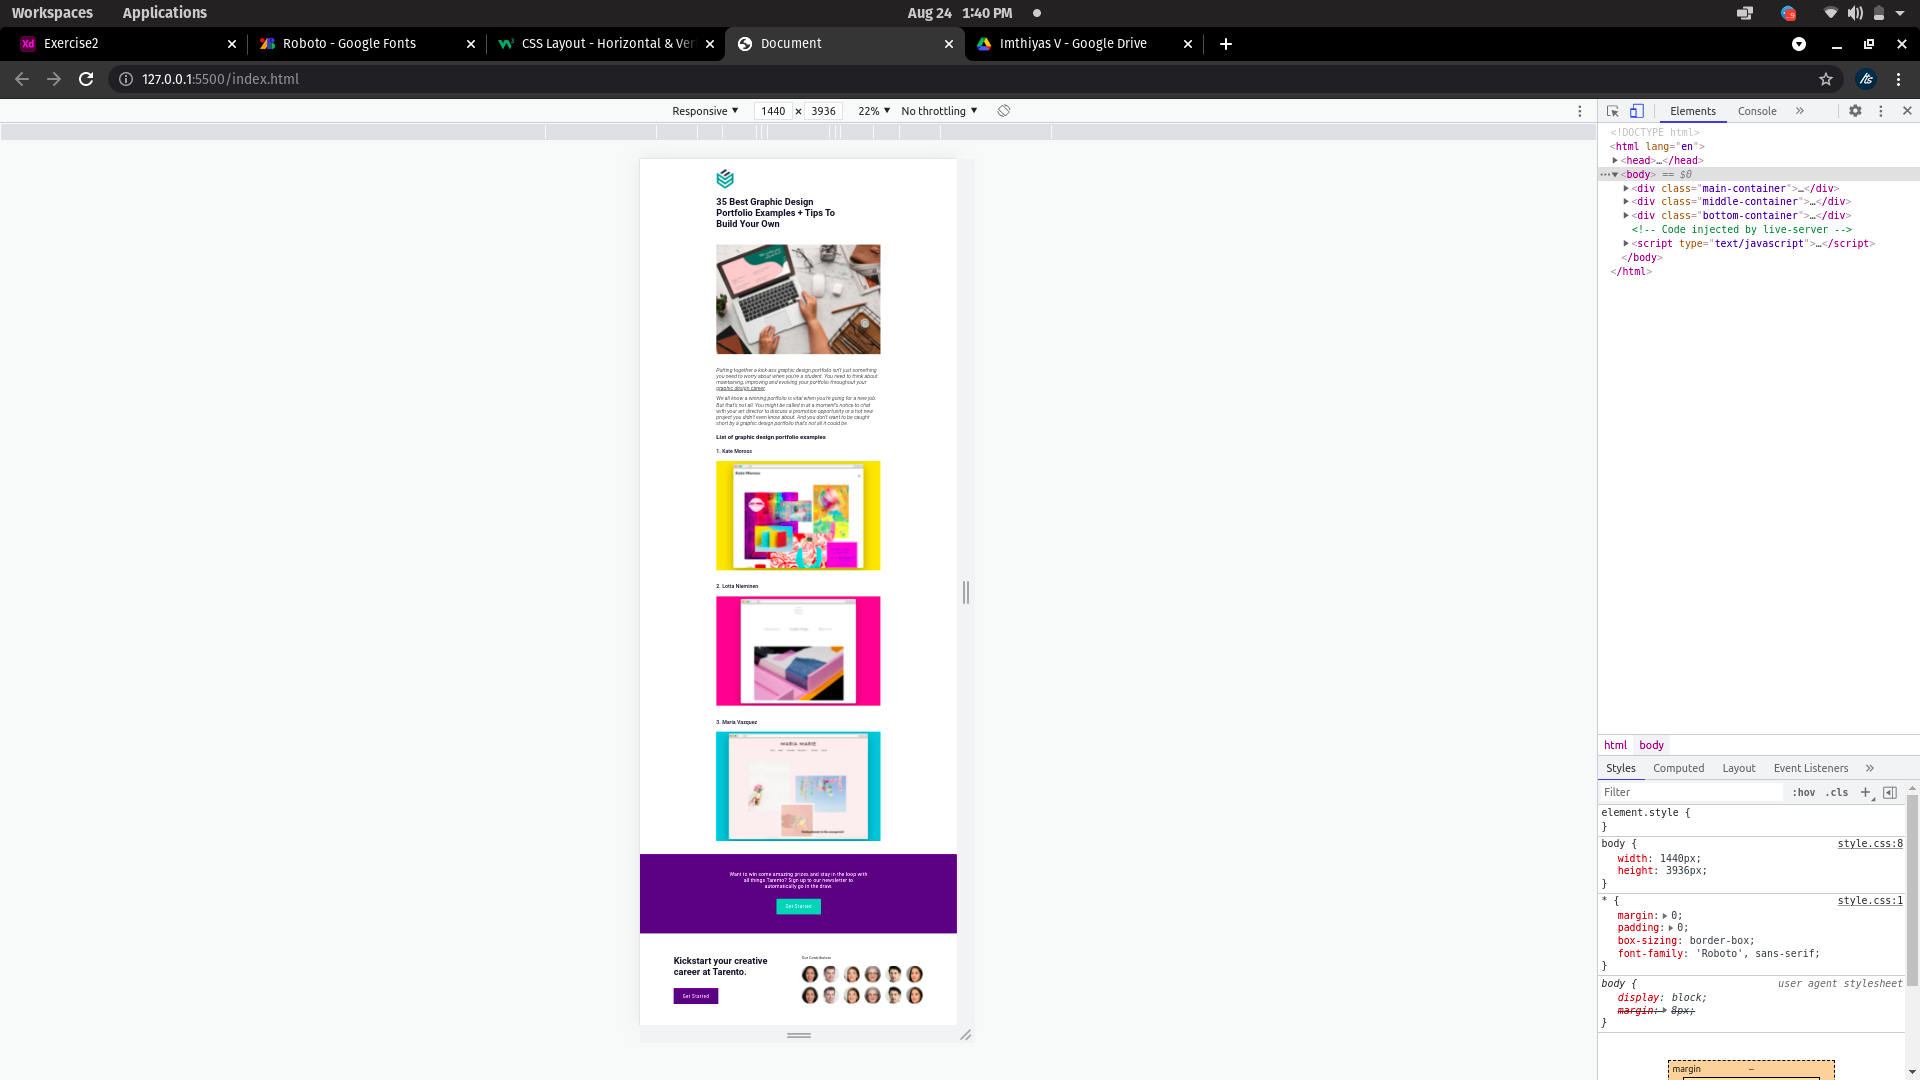
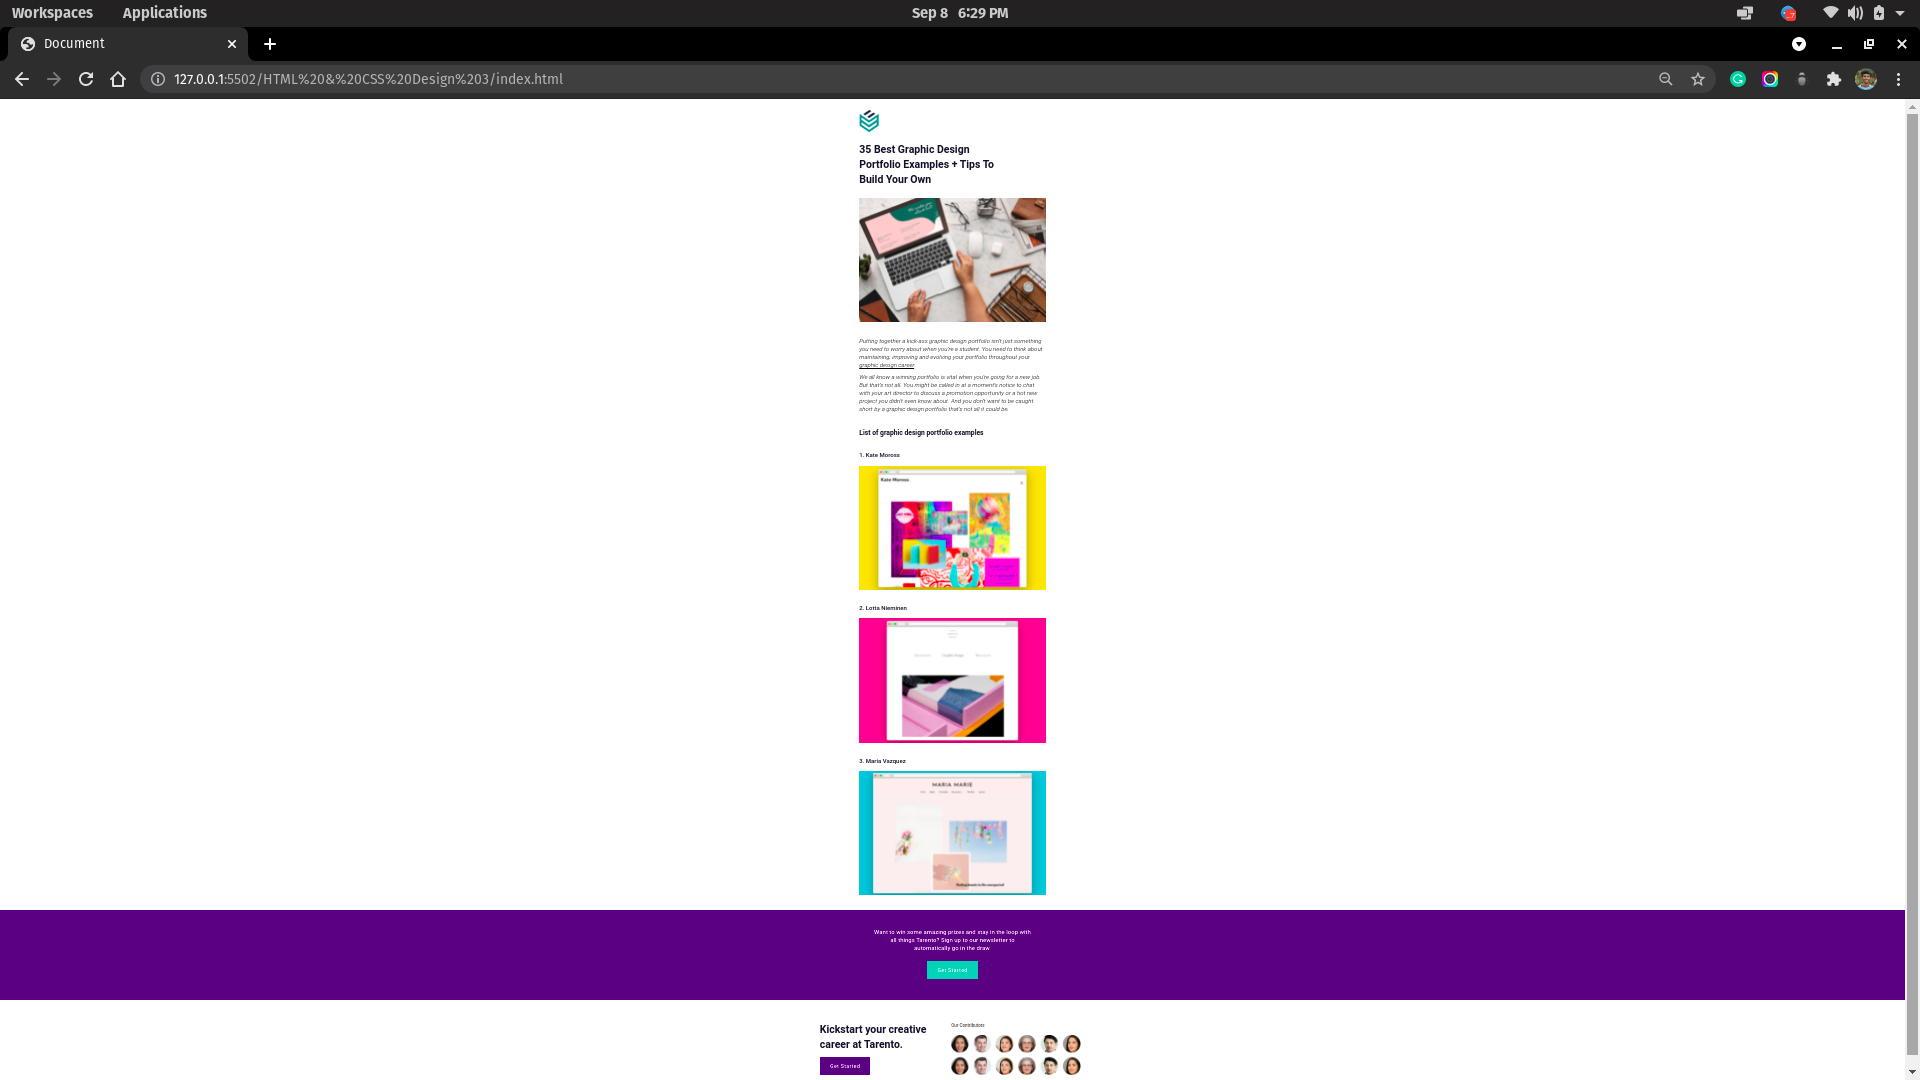
Updated the code

Changed region(s): [[0.0, 0.0, 1.0, 1.0], [0.8438, 0.9778, 0.9688, 1.0]]

diff --git a/HTML & CSS Design 3/css/style.css b/HTML & CSS Design 3/css/style.css
@@ -135,8 +135,8 @@ table {
 }
 
 body {
-  width: 1440px;
-  height: 3936px;
+  /* width: 1440px;
+  height: 3936px; */
   font-family: "Roboto", sans-serif;
   font-size: 16px;
 }
@@ -152,7 +152,7 @@ h2 {
   font-size: 1.6875rem;
   font-weight: 700;
   color: #111529;
-  margin-bottom: 34px;
+  line-height: 3.875rem;
 }
 
 h3 {
@@ -161,122 +161,139 @@ h3 {
   color: #111529;
 }
 
-h4 {
-  font-size: 1.125rem;
-  font-weight: 500;
-  opacity: 0.7;
-  margin-bottom: 27px;
+img {
+  max-width: 100%;
+  height: auto;
 }
 
-p {
+.main-container {
+  max-width: 1170px;
+  margin: 0 auto;
+  padding: 0 1rem;
+}
+
+.main-container .logo {
+  max-width: 746px;
+  margin: 0 auto;
+  margin-top: 45px;
+  margin-bottom: 34px;
+}
+
+.main-container .aboutContent {
+  max-width: 746px;
+  margin: 0 auto;
+}
+
+.main-container .aboutContent h1 {
+  margin-bottom: 45px;
+  max-width: 562px;
+}
+
+.main-container .aboutContent h2 {
+  margin-bottom: 45px;
+}
+
+.main-container .aboutContent .para {
+  padding: 53px 0;
+}
+
+.main-container .aboutContent p {
   font-size: 1.5rem;
   font: italic normal normal 1.5rem Roboto;
   color: #000000;
   line-height: 2.125rem;
 }
 
-.images {
+.main-container .portfolio .images {
   margin-top: 30px;
   margin-bottom: 56px;
 }
 
-.main-container {
-  margin: 47px 347px 0px 347px;
-}
-
-.logo {
-  width: 79px;
-  height: 87px;
-}
-
-.mainHead {
-  margin-top: 34px;
-  width: 582px;
-  height: 249px;
-}
-
-#introImage {
-  width: 746px;
-  height: auto;
-  position: relative;
-  top: -32px;
-}
-
-.Para {
-  margin-top: 21px;
-  margin-bottom: 34px;
-}
-
 .middle-container {
-  width: 1440px;
+  width: 100%;
   height: 360px;
   background: #480e83;
+  padding: 70px 1rem;
 }
 
-.middleContent {
-  width: 634px;
+.middle-container .middleContent {
+  max-width: 634px;
   height: 96px;
-  display: block;
   margin-left: auto;
   margin-right: auto;
+  text-align: center;
 }
 
-#middlePara {
+.middleContent p {
   color: #ffffff;
   font-size: 1.5rem;
   font-weight: 500;
-  text-align: center;
-  padding-top: 75px;
   line-height: 2.125rem;
 }
 
-.btn1 {
-  border-radius: 0px;
+.middleContent .btn1 {
   color: #ffffff;
-  font-size: 21px;
-  font-weight: 500;
   background: #20c8b2;
-  padding: 24px 41px 24px 41px;
-  text-decoration: none;
-  letter-spacing: 1.26px;
-  border-width: 0px;
-  position: relative;
-  top: 43px;
-  left: 217px;
+}
+
+.middleContent #buttton1 {
+  margin-top: 55px;
 }
 
 .bottom-container {
-  width: 1440px;
-  height: 360px;
+  width: 100%;
+  height: auto;
+  padding: 0 1rem;
 }
 
-.bottomContent {
-  width: 1134px;
-  height: 221px;
-  display: block;
+.bottom-container .bottomContent {
+  max-width: 1134px;
+  height: auto;
   margin-left: auto;
   margin-right: auto;
-  padding-top: 100px;
+  margin-top: 40px;
+  margin-bottom: 40px;
   display: flex;
+  flex-wrap: wrap;
+  justify-content: space-around;
+  align-items: center;
 }
-<link rel="stylesheet" href="css/style.css" / > .btn2 {
+
+.bottom-container .left {
+  max-width: 437px;
+  height: auto;
+}
+
+.bottom-container .left h1 {
+  margin-bottom: 50px;
+}
+
+.btn {
   border-radius: 0px;
-  color: #ffffff;
+  /* color: #ffffff; */
   font-size: 21px;
   font-weight: 500;
-  background: #480e83;
+  /* background: #20c8b2; */
   padding: 24px 41px 24px 41px;
   text-decoration: none;
   letter-spacing: 1.26px;
   border-width: 0px;
-  margin-top: 38px;
 }
 
-.left h1 {
-  width: 437px;
-  height: 111px;
+.left .btn2 {
+  color: #ffffff;
+  background: #480e83;
 }
 
-.right {
-  margin-left: 145px;
+.bottom-container .right {
+  margin-top: 40px;
+  padding: 1rem;
+  max-width: 552px;
+}
+
+.right h4 {
+  font-size: 1.125rem;
+  font-weight: 500;
+  opacity: 0.7;
+  margin-bottom: 27px;
 }

diff --git a/HTML & CSS Design 3/index.html b/HTML & CSS Design 3/index.html
@@ -25,22 +25,25 @@
         <div class="introImage">
           <img id="introImage" src="img/introImage.png" alt="intro-image" />
         </div>
-        <p class="para">
-          Putting together a kick-ass graphic design portfolio isn’t just
-          something you need to worry about when you’re a student. You need to
-          think about maintaining, improving and evolving your portfolio
-          throughout your <u>graphic design career</u>.
-        </p>
-        <br />
-        <p class="para">
-          We all know a winning portfolio is vital when you’re going for a new
-          job. But that’s not all. You might be called in at a moment’s notice
-          to chat with your art director to discuss a promotion opportunity or a
-          hot new project you didn’t even know about. And you don’t want to be
-          caught short by a graphic design portfolio that’s not all it could be.
-        </p>
+        <div class="para">
+          <p>
+            Putting together a kick-ass graphic design portfolio isn’t just
+            something you need to worry about when you’re a student. You need to
+            think about maintaining, improving and evolving your portfolio
+            throughout your <u>graphic design career</u>.
+          </p>
+          <br />
+          <p>
+            We all know a winning portfolio is vital when you’re going for a new
+            job. But that’s not all. You might be called in at a moment’s notice
+            to chat with your art director to discuss a promotion opportunity or
+            a hot new project you didn’t even know about. And you don’t want to
+            be caught short by a graphic design portfolio that’s not all it
+            could be.
+          </p>
+        </div>
       </div>
-      <div class="portfolio">
+      <div class="aboutContent portfolio">
         <h2>List of graphic design portfolio examples</h2>
         <class class="item">
           <h3>1. Kate Moross</h3>
@@ -58,18 +61,18 @@
     </div>
     <div class="middle-container">
       <div class="middleContent">
-        <div id="middlePara">
+        <p>
           Want to win some amazing prizes and stay in the loop with all things
           Tarento? Sign up to our newsletter to automatically go in the draw.
-        </div>
-        <button class="btn1">Get Started</button>
+        </p>
+        <p id="buttton1"><a class="btn btn1">Get Started</a></p>
       </div>
     </div>
     <div class="bottom-container">
       <div class="bottomContent">
         <div class="left">
           <h1>Kickstart your creative career at Tarento.</h1>
-          <button class="btn2">Get Started</button>
+          <p><a class="btn btn2">Get Started</a></p>
         </div>
         <div class="right">
           <h4>Our Contributors</h4>
